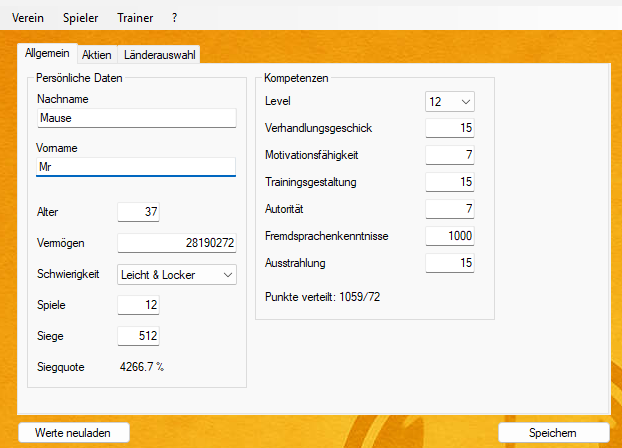
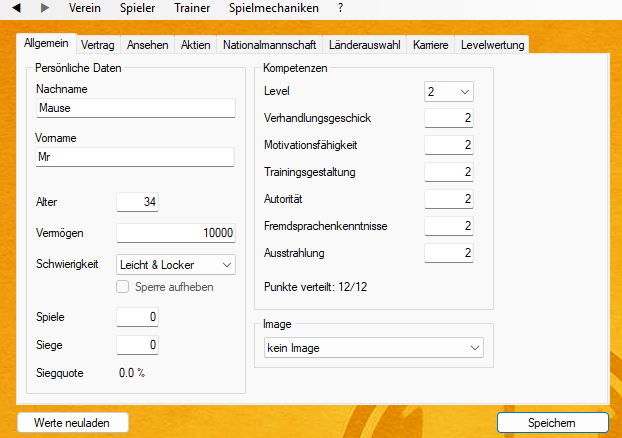
Show the help's navigation arrows in the in-app help, add the game mechanics screenshot

diff --git a/help/index.html b/help/index.html
@@ -73,7 +73,7 @@
             <ol>
               <li>Starten Sie <strong>Anstoss 2 Gold</strong> und laden Sie einen Spielstand.</li>
               <li>Starten Sie <strong>A2G-Trainer</strong>. Die Reihenfolge spielt keine Rolle, der Trainer erkennt das laufende Spiel automatisch.</li>
-              <li>Wechseln Sie über die Menüleiste zur gewünschten Ansicht, zum Beispiel <span class="menu-path">Verein → Eigener</span> oder <span class="menu-path">Spieler → Eigener Kader</span>. Mit den Pfeilen <span class="btn-tag">◀</span> und <span class="btn-tag">▶</span> links in der Menüleiste (oder <kbd>Alt</kbd>+<kbd>←</kbd> / <kbd>Alt</kbd>+<kbd>→</kbd>) geht es zur vorigen bzw. nächsten Ansicht zurück, samt dem dort gewählten Verein.</li>
+              <li>Wechseln Sie über die Menüleiste zur gewünschten Ansicht, zum Beispiel <span class="menu-path">Verein → Eigener</span> oder <span class="menu-path">Spieler → Eigener Kader</span>. Mit den Pfeilen <span class="btn-tag">◄</span> und <span class="btn-tag">►</span> links in der Menüleiste (oder <kbd>Alt</kbd>+<kbd>←</kbd> / <kbd>Alt</kbd>+<kbd>→</kbd>) geht es zur vorigen bzw. nächsten Ansicht zurück, samt dem dort gewählten Verein.</li>
               <li>Bearbeiten Sie die gewünschten Werte und klicken Sie auf <span class="btn-tag">Speichern</span>.</li>
             </ol>
           </fieldset>
@@ -996,6 +996,8 @@
             <p>Annehmen kann der Manager ein Angebot nur, wenn er eine Freigabeklausel hat, der Vorstand ihn freigegeben hat oder sein Vertrag ausläuft. Trifft nichts davon zu, setzt der Trainer beim Anfordern automatisch die Freigabeklausel. Ob und warum etwas nicht geklappt hat, steht direkt unter dem Knopf.</p>
             <p>Technisch leitet der Trainer dafür im laufenden Spiel einen einzigen Programmaufruf über ein kleines Zusatzprogramm um; an den Spieldateien ändert sich nichts. Nach einem Neustart des Spiels ist die Umleitung wieder weg und wird beim nächsten Anfordern neu gesetzt. Speichern Sie vor dem ersten Ausprobieren. Bis zum nächsten Tagesabschluss muss das Spiel weiterlaufen, sonst kommt das Angebot nicht.</p>
           </fieldset>
+
+          <img class="screenshot" src="img/Spielmechaniken.png" alt="Spielmechaniken: Quiz- und Interviewhilfe, Torgrenzen und Jobangebot" style="max-width:420px">
         </div>
       </section>
 

diff --git a/Readme.md b/Readme.md
@@ -27,6 +27,11 @@ Built specifically to run even on legacy systems. Tested working from **Windows 
 <td align="center" width="33%"><img src="docs/Trainees.png" width="260"><br><sub><b>Youth players</b> — skills editor (Jugendspieler)</sub></td>
 <td align="center" width="33%"><img src="docs/CoachView.png" width="260"><br><sub><b>Coach view</b> — competencies &amp; difficulty</sub></td>
 </tr>
+<tr>
+<td align="center" width="33%"><img src="docs/ContractTab.png" width="260"><br><sub><b>Contract tab</b> — salary, bonuses, loan &amp; home club</sub></td>
+<td align="center" width="33%"><img src="docs/Spielmechaniken.png" width="260"><br><sub><b>Game mechanics</b> — quiz &amp; interview help, goal limits, job offers</sub></td>
+<td align="center" width="33%"><img src="docs/Help.png" width="260"><br><sub><b>Help</b> — built in, same content as the online help</sub></td>
+</tr>
 </table>
 </div>
 
